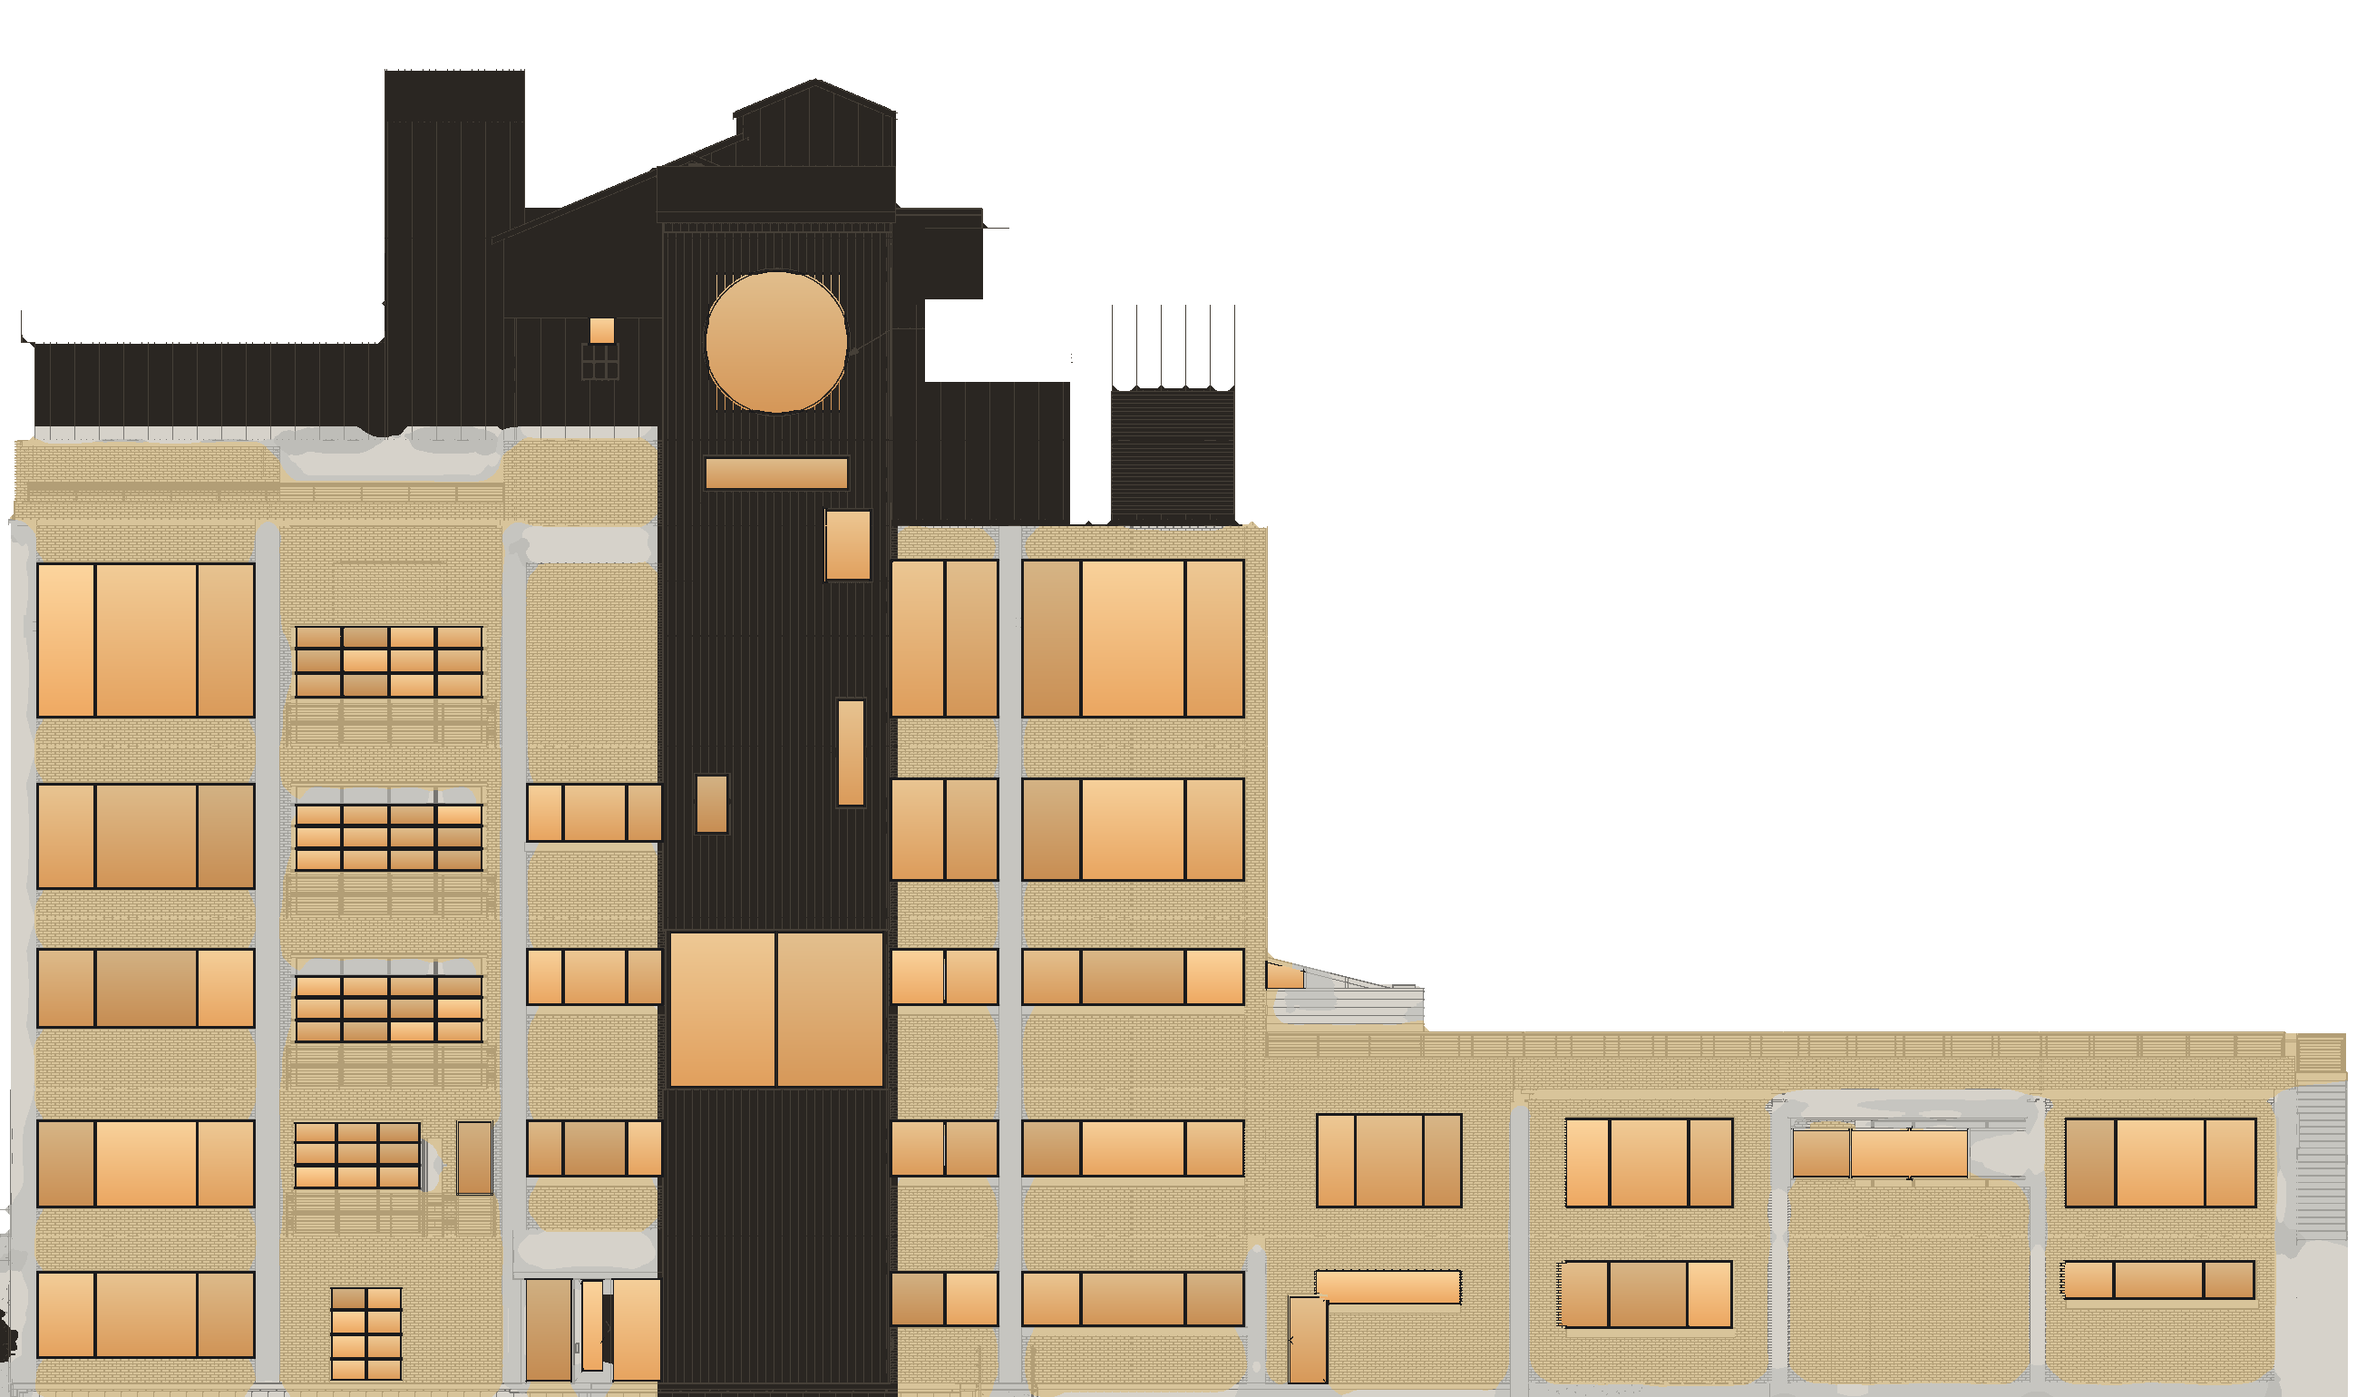
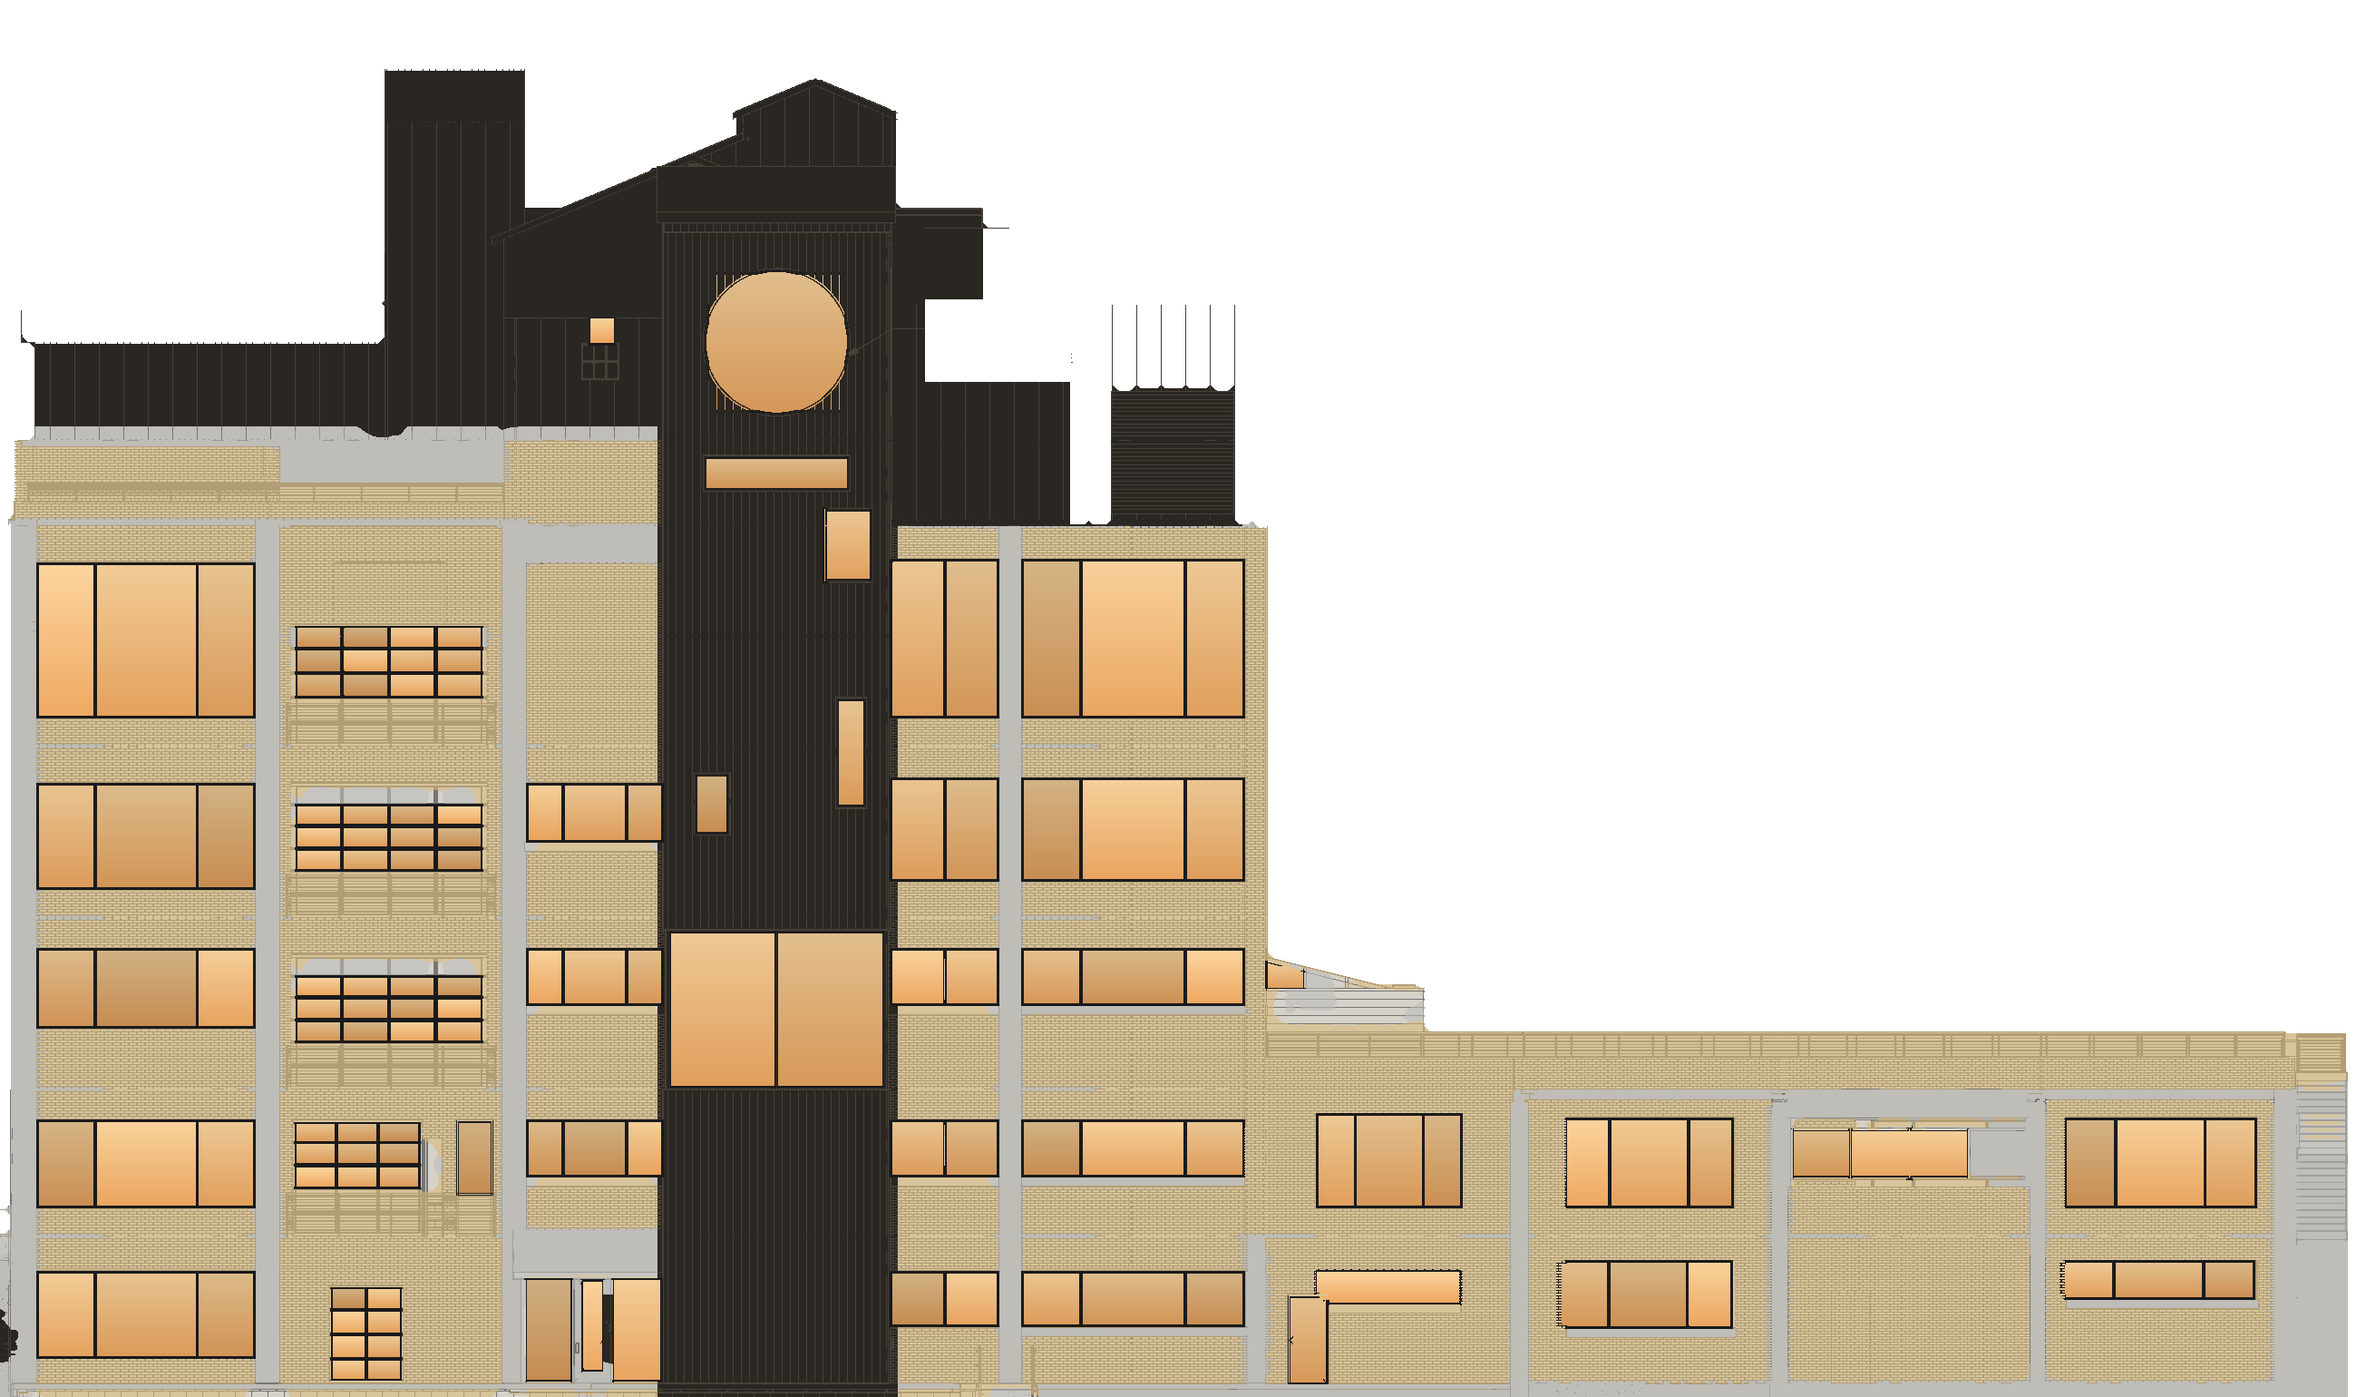
Speakeasy rebuilt from A102 L3 plan; sharper facade material edges
- Speakeasy outbuilding (was the roof vestibule): grey lap-siding screen
  walls per the A102 Level 3 plan, 22" access door in a wall perpendicular
  to the building, storefront up to a 5-bay sloped glass roof, flush
  siding-color corner posts. East wall flat at the 130'-11" window sill;
  roof raised to 136'-0" above the L3 window heads; west wall centered on
  the grid-9 north pier (Collin 2026-11-26).
- colorize.mjs: boundary-sharpening pass (large blank areas -> concrete,
  small hatch cells -> brick) removes grey halos around concrete strips.
- Metal zones for PM panels over doors (south, west SW corner).

diff --git a/src/flyover/Massing.tsx b/src/flyover/Massing.tsx
@@ -23,7 +23,9 @@ import {
   STAIR_LANDINGS,
   STAIRS,
   TOWER,
-  VESTIBULE,
+  SPEAKEASY,
+  PIER,
+  speakeasyTop,
   Volume,
   PIERS,
   WING_POLY,
@@ -870,9 +872,9 @@ const WING_C: XZ = [
   WING_POLY.reduce((s, p) => s + p[1], 0) / WING_POLY.length,
 ];
 
-// Roof vestibule (1/G160 NW axon): lap-siding walls, sloped glass roof with
-// black rafters, door on the west wall. The roof rises from the north edge
-// (x1) to the building wall (x0).
+// "The Speakeasy" (A102 L3 plan, 1/G160 NW axon): lap-siding screen walls, a
+// storefront under a sloped glass roof, and a 22" access door. All dimensions
+// are SPEAKEASY in plan.ts; wall tops and the roof follow speakeasyTop(x).
 let sidingTexture: THREE.CanvasTexture | null = null;
 const getSidingTexture = () => {
   if (sidingTexture) return sidingTexture;
@@ -889,84 +891,148 @@ const getSidingTexture = () => {
   const t = new THREE.CanvasTexture(cv);
   t.wrapS = t.wrapT = THREE.RepeatWrapping;
   t.colorSpace = THREE.SRGBColorSpace;
+  t.repeat.set(0.25, 1 / SPEAKEASY.lap); // extrude UVs are in feet: one lap per course
   sidingTexture = t;
   return t;
 };
-const RoofVestibule: React.FC = () => {
-  const v = VESTIBULE;
-  const [x0, x1] = v.x;
-  const [z0, z1] = v.z;
-  const depth = x1 - x0;
-  // side wall outline in (x, y): bottom, up the north edge, sloped top to the building
-  const sideGeo = useMemo(() => {
+
+// One siding wall, extruded through its thickness from its OUTER face.
+// axis "x": runs along x from a to b, outer face at z = face, thickness toward
+// z = face + inward * t; its top follows the sloped plane. axis "z": runs along
+// z from a to b, outer face at x = face, thickness toward -x; flat top.
+const SidingWall: React.FC<{
+  axis: "x" | "z";
+  a: number;
+  b: number;
+  face: number;
+  inward?: 1 | -1;
+  bottom?: number;
+  top?: number; // flat top instead of the sloped plane
+}> = ({ axis, a, b, face, inward = 1, bottom, top }) => {
+  const s = SPEAKEASY;
+  const y0 = bottom ?? s.y0;
+  const geo = useMemo(() => {
     const sh = new THREE.Shape();
-    sh.moveTo(x0, v.y0);
-    sh.lineTo(x1, v.y0);
-    sh.lineTo(x1, v.wallLow);
-    sh.lineTo(x0, v.roofHigh);
+    sh.moveTo(a, y0);
+    sh.lineTo(b, y0);
+    const yt = (u: number) => top ?? (axis === "x" ? speakeasyTop(u) : speakeasyTop(face));
+    sh.lineTo(b, yt(b));
+    sh.lineTo(a, yt(a));
     sh.closePath();
-    const g = new THREE.ShapeGeometry(sh);
-    // world-space UVs so the laps line up: u = x, v = y / lap
-    const pos = g.attributes.position;
-    const uv = new Float32Array(pos.count * 2);
-    for (let i = 0; i < pos.count; i++) {
-      uv[2 * i] = pos.getX(i) / 4;
-      uv[2 * i + 1] = pos.getY(i) / v.lap;
-    }
-    g.setAttribute("uv", new THREE.BufferAttribute(uv, 2));
-    return g;
-  }, [x0, x1, v.y0, v.wallLow, v.roofHigh, v.lap]);
-  const northTex = useMemo(() => {
-    const t = getSidingTexture().clone();
-    t.repeat.set(1, (v.wallLow - v.y0) / v.lap);
-    t.needsUpdate = true;
-    return t;
-  }, [v.wallLow, v.y0, v.lap]);
-  const sidingMat = (
-    <meshLambertMaterial color={v.sidingColor} map={getSidingTexture()} side={THREE.DoubleSide} />
+    return new THREE.ExtrudeGeometry(sh, { depth: s.wallT, bevelEnabled: false });
+  }, [axis, a, b, face, y0, top, s.wallT]);
+  const pos: [number, number, number] =
+    axis === "x" ? [0, 0, inward === 1 ? face : face - s.wallT] : [face, 0, 0];
+  const rot: [number, number, number] = axis === "x" ? [0, 0, 0] : [0, -Math.PI / 2, 0];
+  return (
+    <group position={pos} rotation={rot}>
+      <mesh geometry={geo}>
+        <meshLambertMaterial color={s.sidingColor} map={getSidingTexture()} />
+      </mesh>
+      <Outline geometry={geo} />
+    </group>
   );
-  const roofLen = Math.hypot(depth, v.roofHigh - v.wallLow);
-  const roofPitch = Math.atan2(v.roofHigh - v.wallLow, depth);
-  const roofMid: [number, number, number] = [(x0 + x1) / 2, (v.roofHigh + v.wallLow) / 2, (z0 + z1) / 2];
-  const zw = z1 - z0;
+};
+
+const RoofVestibule: React.FC = () => {
+  const s = SPEAKEASY;
+  const x0 = GX.g9;
+  const sf = s.storefront;
+  const post = 0.3;
+  const pitch = Math.atan2(s.roofHigh - s.wallLow, s.outerX - x0);
+  // glass roof: building wall -> the short north leg, west wall -> storefront
+  const rz0 = s.westZ + s.wallT;
+  const rz1 = sf.z;
+  const rx1 = s.innerX;
+  const roofLen = (rx1 - x0) / Math.cos(pitch);
+  const roofMid: [number, number, number] = [
+    (x0 + rx1) / 2,
+    (speakeasyTop(x0) + speakeasyTop(rx1)) / 2 + 0.1,
+    (rz0 + rz1) / 2,
+  ];
+  const zw = rz1 - rz0;
+  // storefront glass along z = sf.z (sloped head) as a shape in x-y
+  const eastGlass = useMemo(() => {
+    const sh = new THREE.Shape();
+    sh.moveTo(x0 + PIER.proud, s.y0);
+    sh.lineTo(sf.x, s.y0);
+    sh.lineTo(sf.x, speakeasyTop(sf.x));
+    sh.lineTo(x0 + PIER.proud, speakeasyTop(x0));
+    sh.closePath();
+    return new THREE.ShapeGeometry(sh);
+  }, [x0, sf.x, s.y0]);
+  // corner post footprints, flush with both wall faces when post = wallT
+  const P = s.post, e = (P - s.wallT) / 2;
+  const pW: [number, number] = [s.innerX + e - P, s.innerX + e]; // west wall / north leg
+  const pWz: [number, number] = [s.westZ - e, s.westZ - e + P];
+  const pNE: [number, number] = [s.outerX + e - P, s.outerX + e]; // on the outer north wall line
+  const pDz: [number, number] = [s.doorZ[0] - e, s.doorZ[0] - e + P]; // door wall / outer north
+  const pNEz: [number, number] = [s.eastZ + e - P, s.eastZ + e]; // outer north / east
+  const thirds = (a: number, b: number) => [0, 1, 2, 3].map((k) => a + ((b - a) * k) / 3);
   return (
     <group>
-      {/* side walls (west z0, east z1) */}
-      {[z0, z1].map((z) => (
-        <mesh key={z} geometry={sideGeo} position={[0, 0, z]}>
-          {sidingMat}
-        </mesh>
+      {/* siding screen walls, ending at the corner posts */}
+      <SidingWall axis="x" a={x0 + PIER.proud} b={pW[0]} face={s.westZ} inward={1} />
+      <SidingWall axis="z" a={pWz[1]} b={sf.zN} face={s.innerX} />
+      <SidingWall axis="z" a={pDz[1]} b={pNEz[0]} face={s.outerX} />
+      <SidingWall axis="x" a={x0} b={pNE[0]} face={s.eastZ} inward={-1} top={s.eastTop} />
+      {/* perpendicular door wall: 22" access door, siding above */}
+      <BoxXYZ x={[s.innerX, pNE[0]]} y={[s.y0, s.y0 + s.door.h]} z={s.doorZ} color={C.rail} />
+      <SidingWall axis="x" a={s.innerX} b={pNE[0]} face={s.doorZ[0]} inward={1} bottom={s.y0 + s.door.h} />
+      {/* corner posts */}
+      <BoxXYZ x={pW} y={[s.y0, speakeasyTop(pW[1])]} z={pWz} color={s.sidingColor} />
+      <BoxXYZ x={pNE} y={[s.y0, speakeasyTop(pNE[1])]} z={pDz} color={s.sidingColor} />
+      <BoxXYZ x={pNE} y={[s.y0, speakeasyTop(pNE[1])]} z={pNEz} color={s.sidingColor} />
+      {/* storefront, north run (x = sf.x) */}
+      <BoxXYZ
+        x={[sf.x - 0.05, sf.x + 0.05]}
+        y={[s.y0, speakeasyTop(sf.x)]}
+        z={[sf.zN, sf.z]}
+        color={C.glass}
+        lineColor={C.rail}
+        opacity={0.75}
+      />
+      {thirds(sf.zN, sf.z).map((z) => (
+        <BoxXYZ
+          key={"n" + z}
+          x={[sf.x - post / 2, sf.x + post / 2]}
+          y={[s.y0, speakeasyTop(sf.x)]}
+          z={[z - post / 2, z + post / 2]}
+          color={C.rail}
+        />
       ))}
-      {/* north wall */}
-      <mesh position={[x1, (v.y0 + v.wallLow) / 2, (z0 + z1) / 2]} rotation={[0, Math.PI / 2, 0]}>
-        <planeGeometry args={[zw, v.wallLow - v.y0]} />
-        <meshLambertMaterial color={v.sidingColor} map={northTex} side={THREE.DoubleSide} />
+      {/* storefront, east run (z = sf.z), back to the building */}
+      <mesh geometry={eastGlass} position={[0, 0, sf.z]}>
+        <meshBasicMaterial color={C.glass} transparent opacity={0.75} side={THREE.DoubleSide} />
       </mesh>
-      {/* corner trim */}
-      {[z0, z1].map((z) => (
-        <mesh key={'t' + z} position={[x1, (v.y0 + v.wallLow) / 2, z]}>
-          <boxGeometry args={[0.35, v.wallLow - v.y0, 0.35]} />
-          <meshLambertMaterial color={C.frame} />
-        </mesh>
+      {thirds(x0 + PIER.proud + post / 2, sf.x).map((x) => (
+        <BoxXYZ
+          key={"e" + x}
+          x={[x - post / 2, x + post / 2]}
+          y={[s.y0, speakeasyTop(x)]}
+          z={[sf.z - post / 2, sf.z + post / 2]}
+          color={C.rail}
+        />
       ))}
-      {/* door on the west wall, north end */}
-      <mesh position={[(v.door.x[0] + v.door.x[1]) / 2, v.y0 + v.door.h / 2, z0 - 0.08]}>
-        <boxGeometry args={[v.door.x[1] - v.door.x[0], v.door.h, 0.15]} />
-        <meshLambertMaterial color={C.metal} />
-      </mesh>
+      {[s.y0 + 0.15, s.y0 + 3].map((y) => (
+        <BoxXYZ key={"sill" + y} x={[x0 + PIER.proud, sf.x]} y={[y - 0.15, y + 0.15]} z={[sf.z - post / 2, sf.z + post / 2]} color={C.rail} />
+      ))}
+      {[s.y0 + 0.15, s.y0 + 3].map((y) => (
+        <BoxXYZ key={"nsill" + y} x={[sf.x - post / 2, sf.x + post / 2]} y={[y - 0.15, y + 0.15]} z={[sf.zN, sf.z]} color={C.rail} />
+      ))}
       {/* glass roof + rafters, sloping up to the building */}
-      <group position={roofMid} rotation={[0, 0, -roofPitch]}>
+      <group position={roofMid} rotation={[0, 0, -pitch]}>
         <mesh rotation={[-Math.PI / 2, 0, 0]}>
           <planeGeometry args={[roofLen, zw]} />
           <meshBasicMaterial color="#cfe0e6" transparent opacity={0.35} side={THREE.DoubleSide} depthWrite={false} />
         </mesh>
-        {Array.from({ length: v.bays + 1 }, (_, k) => (
-          <mesh key={k} position={[0, 0.15, -zw / 2 + (zw * k) / v.bays]}>
-            <boxGeometry args={[roofLen + 0.4, 0.4, 0.3]} />
+        {Array.from({ length: s.bays + 1 }, (_, k) => (
+          <mesh key={k} position={[0, 0.15, -zw / 2 + (zw * k) / s.bays]}>
+            <boxGeometry args={[roofLen + 0.3, 0.4, 0.3]} />
             <meshLambertMaterial color={C.rail} />
           </mesh>
         ))}
-        {/* edge beam along the north edge */}
+        {/* edge beam over the north leg / storefront */}
         <mesh position={[roofLen / 2, 0.15, 0]}>
           <boxGeometry args={[0.4, 0.5, zw]} />
           <meshLambertMaterial color={C.rail} />

diff --git a/src/flyover/plan.ts b/src/flyover/plan.ts
@@ -438,22 +438,48 @@ export const RINGS = [
 ];
 
 // ---- North wing roof (A140, NE/NW axons) ----------------------------------
-// Roof vestibule on the wing roof (1/G160 NW axon, A402 north): lap-siding
-// walls on three sides, top 132'-5" at the outer (north) edge; a glass roof
-// with 5 bays of rafters slopes up to 134'-11" at the building wall. Door on
-// the west wall at its north end. sidingColor: grey, confirmed by Collin 2026-11-25.
-export const VESTIBULE = {
-  x: [GX.g9, 130.3] as [number, number],
-  z: [-44.9, -25.8] as [number, number],
+// "The Speakeasy" outbuilding on the wing roof (L3 plan on 040 A102, measured
+// at 54 px/ft on the sheet; 1/G160 NW axon; Collin 2026-11-26).
+//  - Lap-siding screen walls (grey, Collin 2026-11-25), all faces given as
+//    OUTER faces: a west wall from the building out to a short north leg
+//    (innerX); a 22" access door in a short wall perpendicular to the building
+//    joins that leg to the long outer north wall (outerX), which returns to the
+//    building as the east wall.
+//  - Inside: a storefront wall (along x = storefront.x, then back to the
+//    building along z = storefront.z) up to a sloped glass roof with 5 bays of
+//    rafters. The ~2 ft strip between the storefront and the siding is open.
+//  - Heights (A402 north): one sloped plane, 134'-11" at the building wall,
+//    132'-5" at the outer north wall; wall tops and the glass roof follow it.
+export const SPEAKEASY = {
   y0: H.l3,
-  wallLow: 32.4, // siding top at the north edge (A402)
-  roofHigh: 34.9, // glass roof at the building wall (A402)
+  // at the building wall: raised from A402's 134'-11" (it landed on the L3
+  // windows, heads 135'-7") to just above them; pitch increases (Collin 2026-11-26)
+  roofHigh: 36.0,
+  wallLow: 32.4, // at the outer north wall (A402)
+  wallT: 0.8,
+  // corner posts: walls terminate into them; siding color, flush with both wall
+  // faces and no taller than the walls (Collin 2026-11-26)
+  post: 0.8,
+  // west wall outer face: centered on the grid-9 north pier at z -45.1 (moved
+  // from A102's grid G line, Collin 2026-11-26); it starts at the pier face
+  westZ: -45.1 - 0.4,
+  eastZ: -23.0, // east wall outer face
+  // east wall: flat top, level with the sill of the window it returns to
+  // (A402 north, sill 130'-11"; Collin 2026-11-26)
+  eastTop: 30.9,
+  innerX: 128.88, // short north leg, outer face (west of the door)
+  outerX: 131.38, // long north wall, outer face (east of the door)
+  doorZ: [-37.2, -36.7] as [number, number], // the perpendicular door wall
+  door: { w: 1.83, h: 7 }, // 22" access door
+  storefront: { x: 128.4, z: -26.0, zN: -35.7 }, // zN: north run starts at the leg's end
   bays: 5,
-  wallT: 0.4,
   lap: 0.6, // siding course height (ft)
-  door: { x: [126.2, 129.2] as [number, number], h: 7.5 },
   sidingColor: "#a9a398",
 };
+// top of the sloped plane at x
+export const speakeasyTop = (x: number) =>
+  SPEAKEASY.roofHigh -
+  ((x - GX.g9) * (SPEAKEASY.roofHigh - SPEAKEASY.wallLow)) / (SPEAKEASY.outerX - GX.g9);
 export const RTUS = [
   {
     x: [167.8, 177.7] as [number, number],

diff --git a/src/flyover/Flyover.tsx b/src/flyover/Flyover.tsx
@@ -184,8 +184,7 @@ export const Flyover: React.FC<FlyoverProps> = ({
   return (
     <AbsoluteFill
       style={{
-        background: `linear-gradient(${SKY_TOP}, ${PAPER_GROUND})`,
-        translate: "-339.3px -8.3px"
+        background: `linear-gradient(${SKY_TOP}, ${PAPER_GROUND})`
       }}
     >
       {textures ? (
